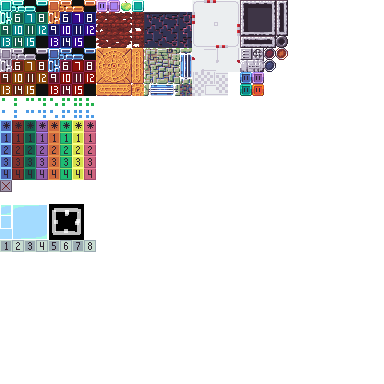
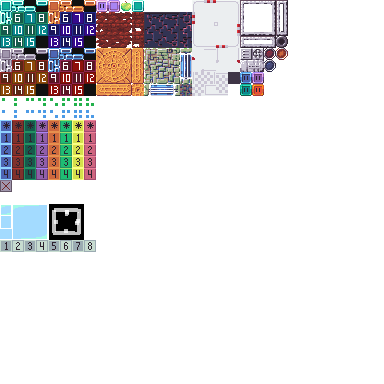
Misc Art and Tween Adjustments

Changed region(s): [[0.625, 0.0, 0.75, 0.125], [0.5938, 0.1875, 0.625, 0.2188]]

diff --git a/games/Phaser-Snake-Game/public/js/SnakeHole.js b/games/Phaser-Snake-Game/public/js/SnakeHole.js
@@ -261,7 +261,7 @@ export const GState = Object.freeze({
 const DREAMWALLSKIP = [0,1,2];
 
 // #region START STAGE
-const START_STAGE = 'testingRacetrack'; // Warning: Cap sensitive in the code but not in Tiled. Can lead to strang bugs.
+const START_STAGE = 'testingFuturistic'; // Warning: Cap sensitive in the code but not in Tiled. Can lead to strang bugs.
 var END_STAGE = 'Stage-06'; // Is var because it is set during debugging UI
 
 // #region SpaceBoyScene
@@ -3719,6 +3719,7 @@ class GameScene extends Phaser.Scene {
 
         var wallSprites = [];
         var fadeOutSprites = []; 
+        var groundSprites = [];
 
         
 
@@ -3727,6 +3728,7 @@ class GameScene extends Phaser.Scene {
             var _sprite = this.add.sprite(tile.pixelX + X_OFFSET, tile.pixelY + Y_OFFSET, 'tileSprites', tile.index - 1,
             ).setOrigin(0,0).setDepth(50);
             _sprite.setPipeline('Light2D').setDepth(50);
+
             
             if (FADE_OUT_TILES.includes(tile.index)) {
                 fadeOutSprites.push(_sprite);
@@ -3737,11 +3739,12 @@ class GameScene extends Phaser.Scene {
         });
         this.groundLayer.culledTiles.forEach( tile => {
 
-            var _sprite = this.add.sprite(tile.pixelX + X_OFFSET, tile.pixelY + Y_OFFSET, 'tileSprites', tile.index - 1,
-            ).setOrigin(0,0).setDepth(50);
-            _sprite.setPipeline('Light2D').setDepth(20);
+            var _spriteGround = this.add.sprite(tile.pixelX + X_OFFSET, tile.pixelY + Y_OFFSET, 'tileSprites', tile.index - 1,
+            ).setOrigin(0,0).setDepth(20);
+            _spriteGround.setTint(0xaba2d8);
+            _spriteGround.setPipeline('Light2D').setDepth(20);
             
-            wallSprites.push(_sprite);            
+            groundSprites.push(_spriteGround);            
             
         });
 
@@ -3803,6 +3806,22 @@ class GameScene extends Phaser.Scene {
                     blackholeImage.play('blackholeClose')
                     this.stageAdvance(nextStageIndex)
                 });
+            }
+        });
+
+        var blackholeTweenGround = this.tweens.add({
+            targets: groundSprites, 
+            x: this.snake.head.x,
+            y: this.snake.head.y,
+            yoyo: false,
+            duration: 600,
+            ease: 'Sine.in',
+            repeat: 0,
+            delay: this.tweens.stagger(30),
+            alpha: {from: 5, to: 0},
+            rotation: 5,
+            onDelay: () =>{
+                blackholeTweenGround.timeScale += .03;
             }
         });
 
